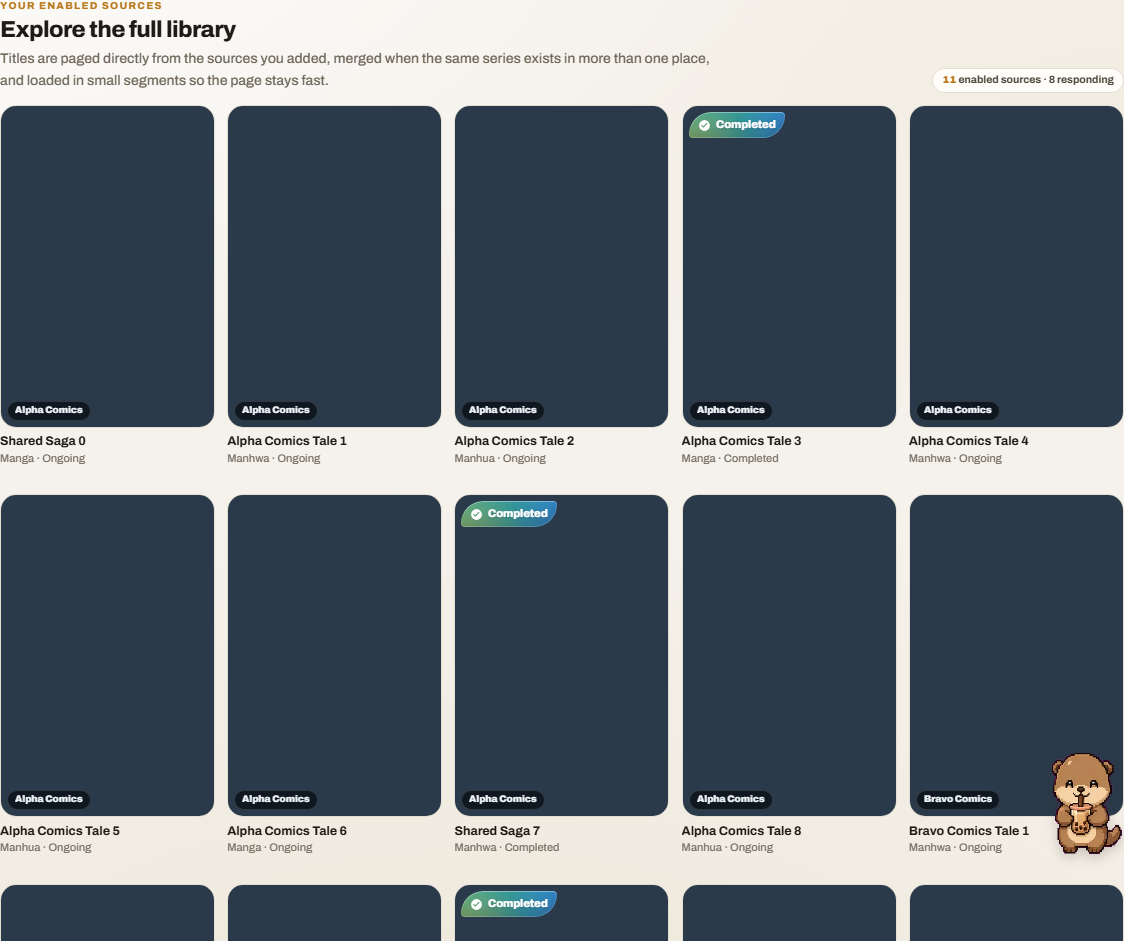
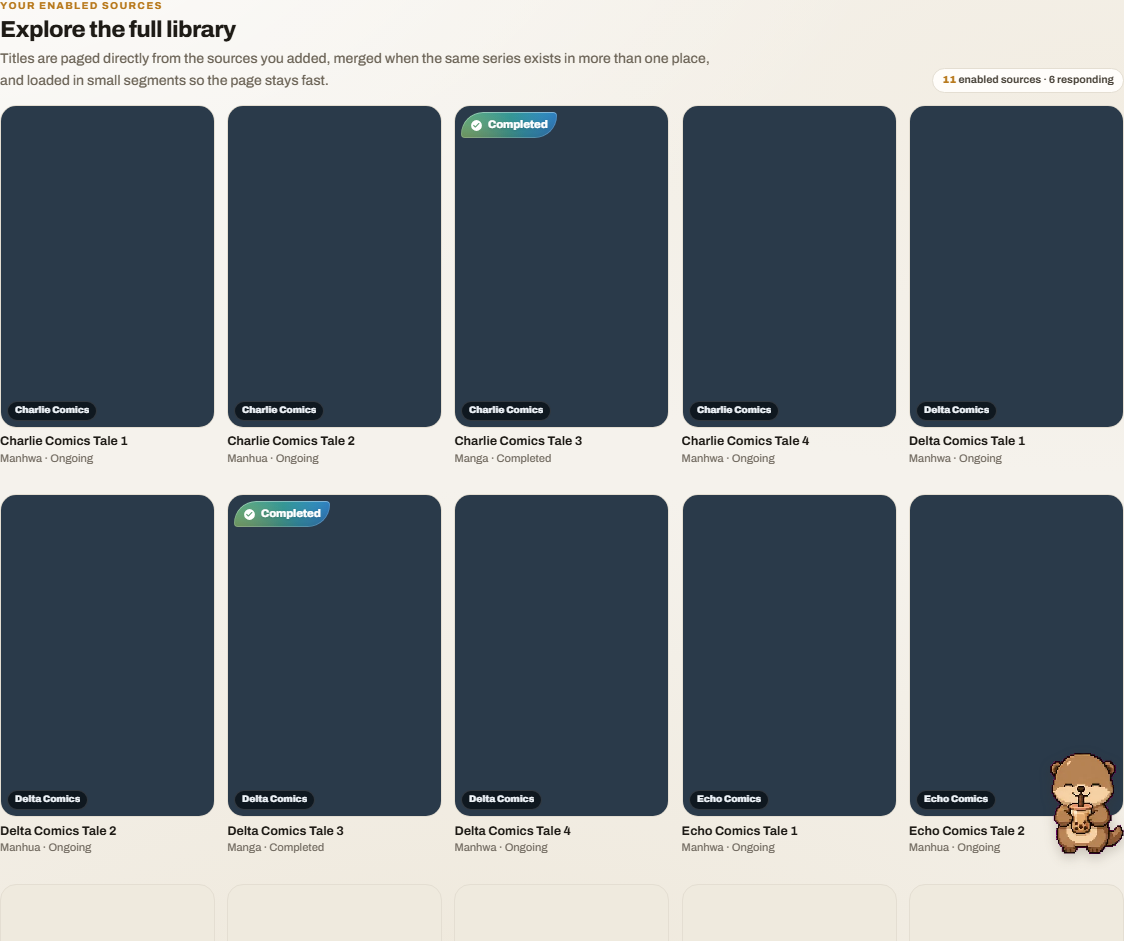
Capture the warm revisit, which is where the counter lied
The committed "before" evidence came from a cold load, and a cold load never
showed the bug: the counter only reports 0 responding on a revisit, where the
warm cache serves the whole segment, nothing is fetched and no health event
fires. tools/recovery-evidence.mjs now takes YOMU_DIST, so the before half is
captured from the baseline checkout rather than from whatever the working tree
happened to be, and it records a second visit as well as the first.

The pair now reads, on the same fixture with the same seeding:

  before  "11 enabled sources · 0 responding"  with 10 source-backed cards up
  after   "11 enabled sources · 6 responding"  with 10 source-backed cards up

It also stops counting the loader's own .yl-card as a library card, which is
the same conflation that made the benchmark compare two different events.

docs/recovery/README.md gains the explicit list of removed render paths and
controls that the spec asks a PR to carry.

diff --git a/docs/recovery/README.md b/docs/recovery/README.md
@@ -84,16 +84,47 @@ as "usable content". The library explorer no longer uses that name.
 |---|---|---|
 | Home rails | `before-rails.png` | `after-rails.png` |
 | Full library | `before-full-library.png` | `after-full-library.png` |
+| Full library, warm revisit | `before-warm-library.png` | `after-warm-library.png` |
 | Whole page | `before-home.png` | `after-home.png` |
 | DOM counts | `before-summary.json` | `after-summary.json` |
 
-Regenerate either with `node tools/recovery-evidence.mjs before|after`. Both
-runs drive the fixture app with the same seeding the runtime gauntlet uses.
+Both halves are reproducible from the two checkouts:
+
+```bash
+YOMU_DIST=../yomu-baseline/dist-app node tools/recovery-evidence.mjs before
+node tools/recovery-evidence.mjs after
+```
+
+Cold load:
 
 ```
 before: railControlCounts [2,2,2]  canonicalCards 0   legacyLibraryCards 10  genericMore 3
 after:  railControlCounts [1,1,1]  canonicalCards 64  legacyLibraryCards 0   genericMore 0
 ```
+
+Warm revisit — the visit the counter lied on, which a cold load alone would
+never have shown:
+
+```
+before: "11 enabled sources · 0 responding"   with 10 source-backed cards on screen
+after:  "11 enabled sources · 6 responding"   with 10 source-backed cards on screen
+```
+
+### Render paths and controls removed
+
+| removed | replaced by |
+|---|---|
+| `bindRails()`'s generic `h2` pass and `.yomu-generic-more` (navigated to `/find?browse=`) | `YomuPager.claim()` on the rail head |
+| `.yomu-rail-more` and its `railPages` WeakMap | the pager's own `page` cursor |
+| `.yl-card` / `.yl-card__source` / `.yl-card__copy` renderer and CSS in the library explorer | `YomuTitleCard.create()` |
+| `.yl-skeleton` and its CSS | `YomuTitleCard.skeleton()` |
+| `.yl-grid` CSS | `.yt-grid` |
+| `.yl-more` button and CSS | the pager's `.yt-more` |
+| `makeTile()`'s `.tile` DOM in `yomu-search-v3.js` | `YomuTitleCard.create()` |
+| `buildTile()`'s `.tile` DOM in `find.html`, `tile()`'s in `more.html` | `YomuTitleCard.create()` |
+| `searchTile()` in `yomu-explore-more.js` | `YomuTitleCard.create()` |
+| `withPool()` in the library engine (dead after the wave rewrite) | the raced wave in `loadNext()` |
+| `installCss()`'s injected `<style>` in `yomu-explore-more.js` | `yomu-titlecard.css` |
 
 ---
 
